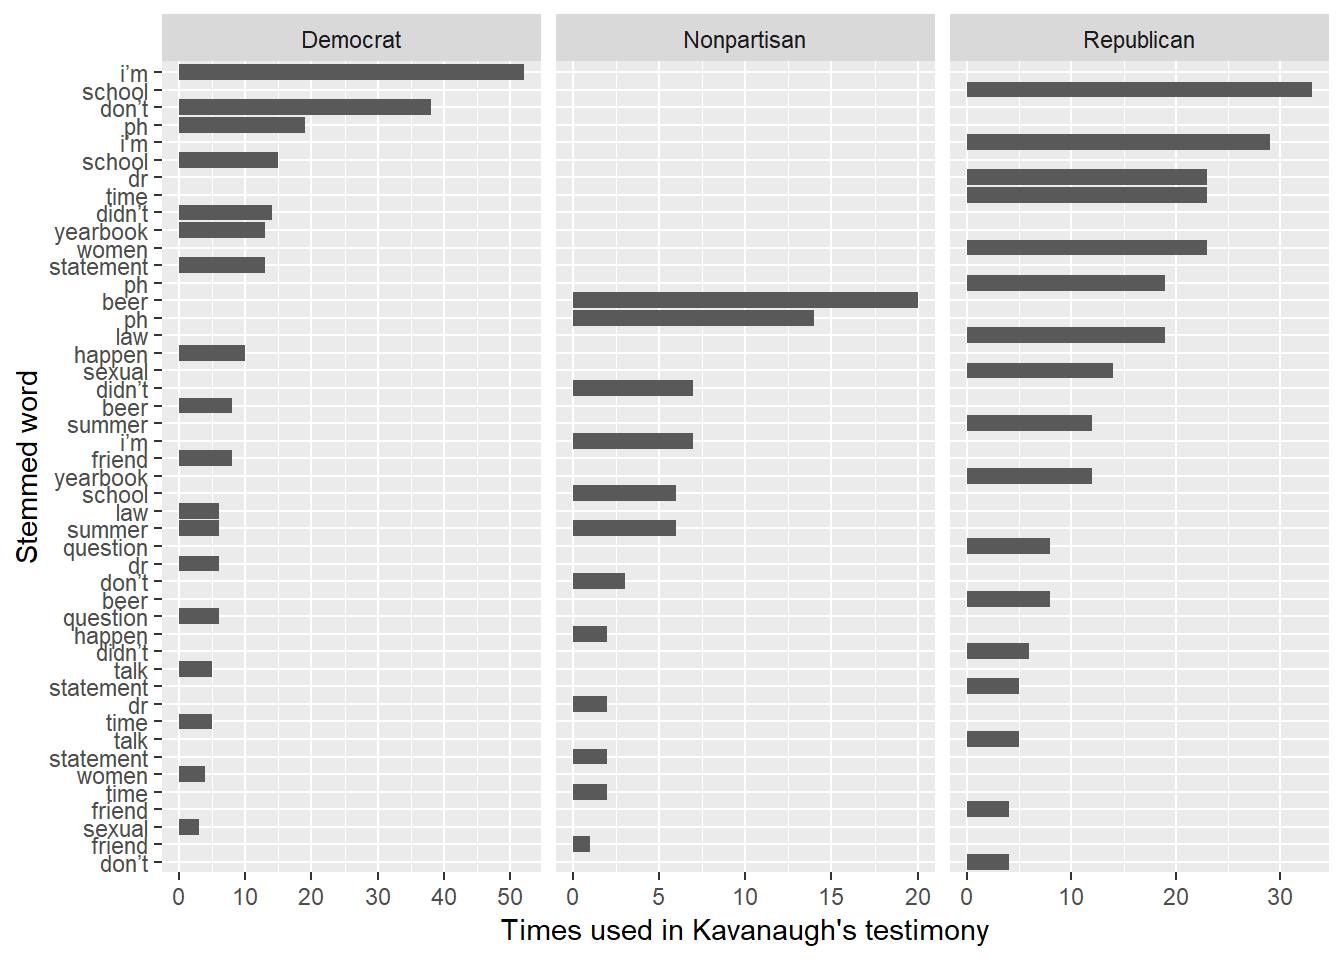
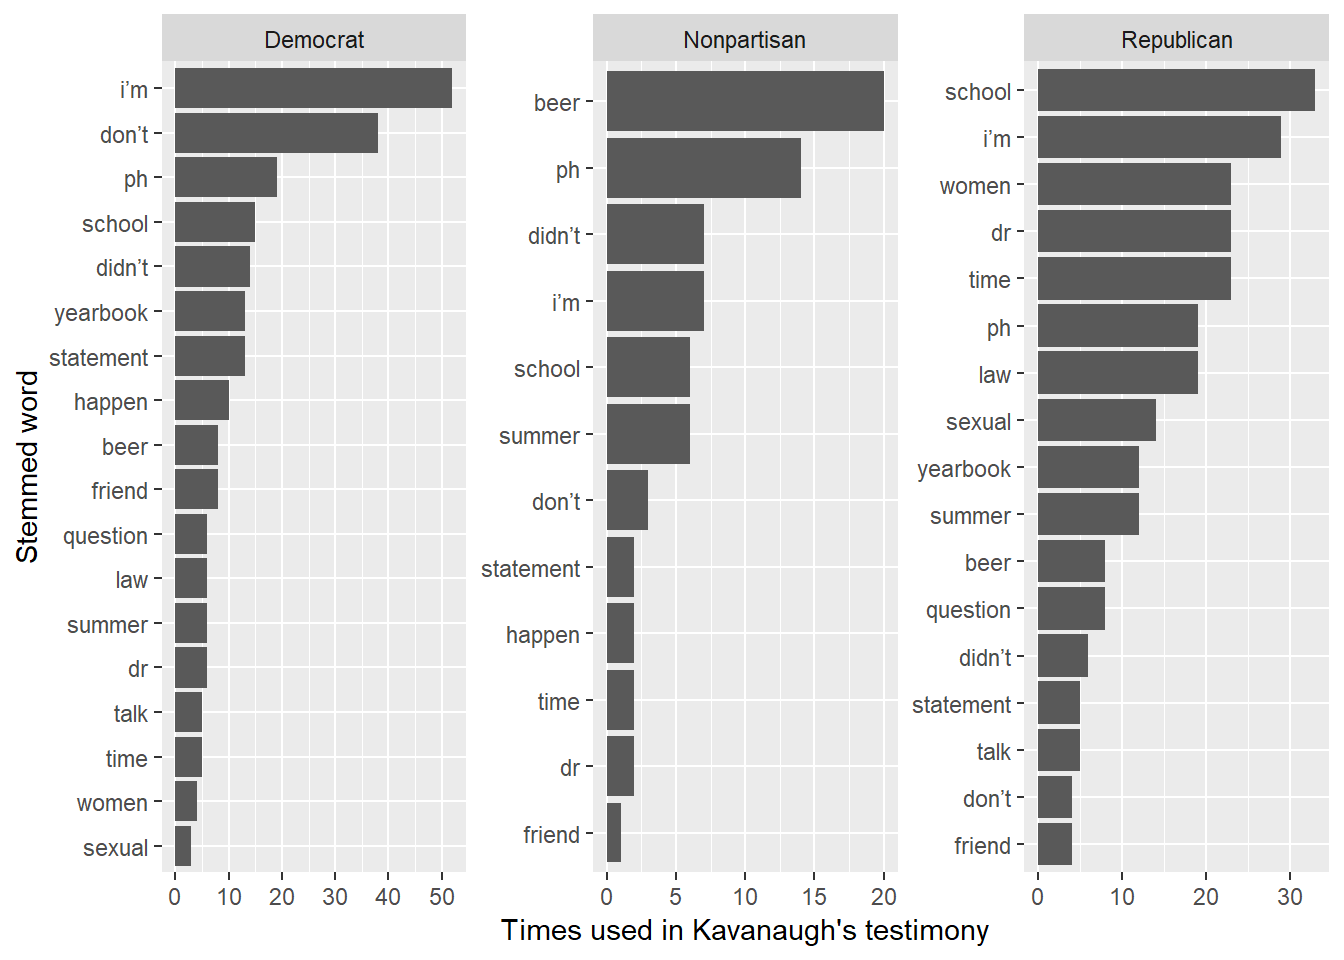
Fix Kavanaugh's most common word by last speaker graph.

diff --git a/content/post/2018-09-30-tidy-text-analysis-of-brett-kavanaugh-s-testimony.html b/content/post/2018-09-30-tidy-text-analysis-of-brett-kavanaugh-s-testimony.html
@@ -265,7 +265,7 @@ trans_tidy %&gt;%
   geom_bar(stat = &quot;identity&quot;) +
   labs(x = &quot;Stemmed word&quot;, y = &quot;Times used in Kavanaugh&#39;s testimony&quot;) +
   coord_flip() +
-  facet_wrap(~ last_speaker_party, scales = &quot;free_x&quot;) +
+  facet_wrap(~ last_speaker_party, scales = &quot;free&quot;) +
   scale_x_discrete(labels = function(x) str_remove(x,&quot;^\\d+_&quot;))</code></pre>
 <pre><code>## Joining, by = &quot;word&quot;</code></pre>
 <p><img src="/post/2018-09-30-tidy-text-analysis-of-brett-kavanaugh-s-testimony_files/figure-html/unnamed-chunk-13-1.png" width="672" /></p>
